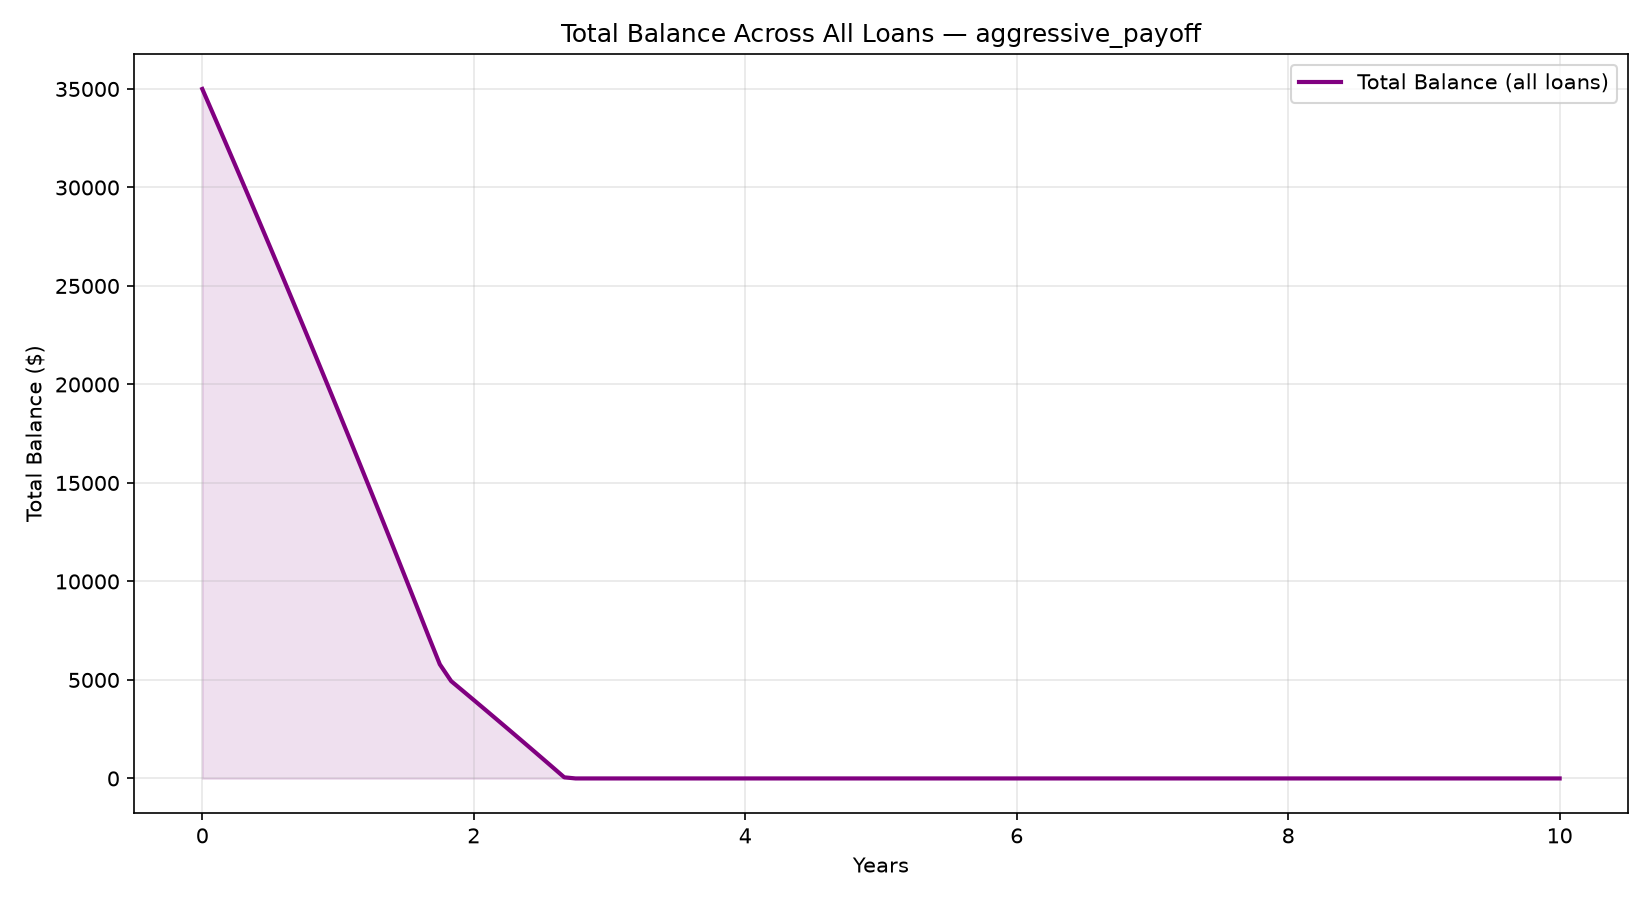
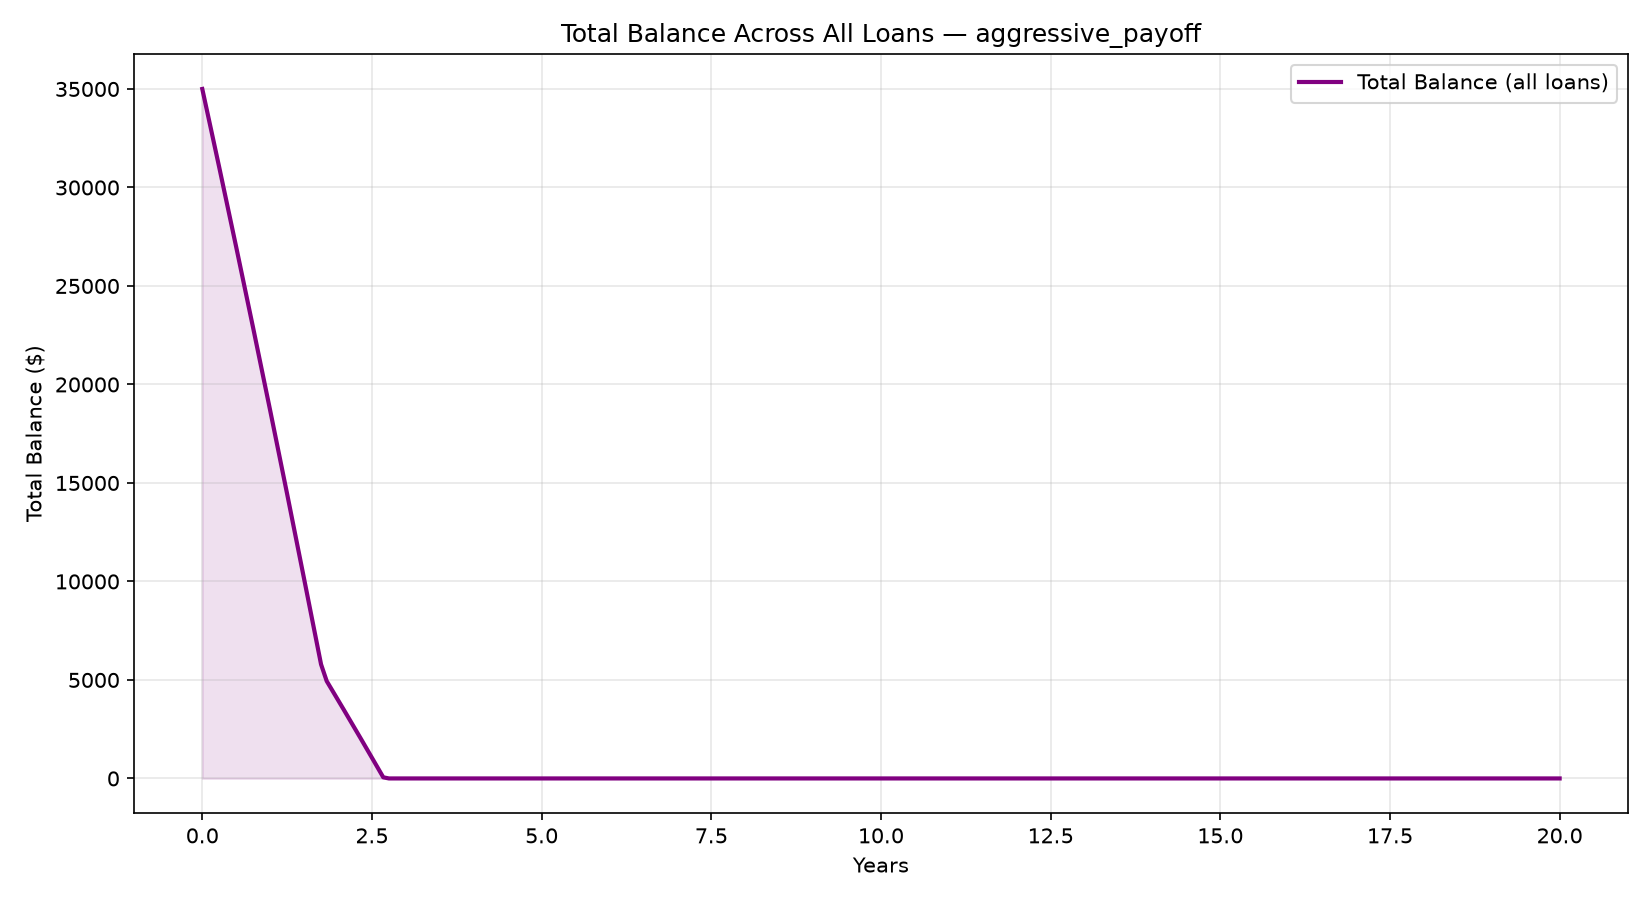
increase timeline of graphs out to 20 years

diff --git a/main.py b/main.py
@@ -10,7 +10,7 @@ from TRIALS import TRIALS
 
 # ── Loan parameters (shared across all trials) ───────────────────────────────
 
-YEARS = 10.0
+YEARS = 20.0
 RATE_AB = 0.05      # shared rate for Loans A and B
 RATE_C = 0.09       # higher rate for Loan C
 PRINCIPAL_A = 15_000
